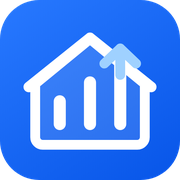
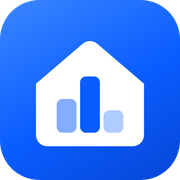
로고 마크 개선(상승 화살표 제거), 사이트로 이동 버튼 채움 스타일 (#18)
Claude-Session: https://claude.ai/code/session_016NGv6rUYKRUXGvfp4BMYV9

Changed region(s): [[0.1111, 0.1667, 0.8889, 0.8333]]

diff --git a/app/globals.css b/app/globals.css
@@ -11,12 +11,8 @@
 
 /* Brand mark: home + rising ranking bars */
 .logo{gap:10px}
-.logo .logo-mark{display:grid;place-items:center;width:38px;height:38px;border-radius:12px;background:linear-gradient(145deg,#2879ff,#0755e8);box-shadow:0 7px 16px rgba(23,104,255,.24);color:white;font-style:normal;font-size:initial}
-.logo-mark svg{width:32px;height:32px;overflow:visible}
-.logo-mark .house{fill:rgba(255,255,255,.12);stroke:#fff;stroke-width:2.2;stroke-linejoin:round}
-.logo-mark .roof{fill:none;stroke:#fff;stroke-width:2.4;stroke-linecap:round;stroke-linejoin:round}
-.logo-mark .bars{fill:none;stroke:#fff;stroke-width:2.6;stroke-linecap:round}
-.logo-mark .arrow{fill:none;stroke:#9fd1ff;stroke-width:2.2;stroke-linecap:round;stroke-linejoin:round}
+.logo .logo-mark{display:grid;place-items:center;width:38px;height:38px;border-radius:12px;background:linear-gradient(150deg,#3b86ff 0%,#0a5cff 55%,#0647d6 100%);box-shadow:0 7px 16px rgba(23,104,255,.24),inset 0 1px 0 rgba(255,255,255,.25);color:white;font-style:normal;font-size:initial}
+.logo-mark svg{width:38px;height:38px}
 .logo .logo-word{display:inline;width:auto;height:auto;border-radius:0;background:none;color:var(--ink);font-size:23px;font-style:normal;white-space:nowrap}
 .logo-word b{color:var(--blue);font-weight:900}
 .rank-card .rank-link{position:absolute;bottom:17px;left:20px;right:20px;border:0;background:none;text-align:left;font-size:12px;color:#566176;font-weight:800;padding:8px 0 0;border-top:1px solid #f0f2f5}.rank-card .rank-link b{float:right}.rank-card .rank-link:hover{color:var(--blue)}

diff --git a/app/brand-logo.tsx b/app/brand-logo.tsx
@@ -4,10 +4,10 @@ export function BrandLogo({ footer = false, href = "#top" }: { footer?: boolean;
     <a className={`logo${footer ? " footer-logo" : ""}`} href={href} aria-label="순위ZIP 홈">
       <span className="logo-mark" aria-hidden="true">
         <svg viewBox="0 0 40 40">
-          <path className="house" d="M5.5 18.4 20 6.5l14.5 11.9v14.1a2 2 0 0 1-2 2h-25a2 2 0 0 1-2-2Z" />
-          <path className="roof" d="m3.8 19.2 16.2-13 16.2 13" />
-          <path className="bars" d="M12 29v-6m8 6V18m8 11V13" />
-          <path className="arrow" d="m23.8 13 4.2-4 4.2 4M28 9v7" />
+          <path d="M8 18.6 18.4 9.7a2.5 2.5 0 0 1 3.2 0L32 18.6V30a2.5 2.5 0 0 1-2.5 2.5h-19A2.5 2.5 0 0 1 8 30Z" fill="#fff"/>
+          <rect x="12.6" y="22" width="4.4" height="7.5" rx="1.3" fill="#0a5cff" fillOpacity=".5"/>
+          <rect x="17.8" y="17" width="4.4" height="12.5" rx="1.3" fill="#0a5cff"/>
+          <rect x="23" y="24.5" width="4.4" height="5" rx="1.3" fill="#0a5cff" fillOpacity=".32"/>
         </svg>
       </span>
       <span className="logo-word">순위<b>ZIP</b></span>

diff --git a/app/rankings/[slug]/ranking.css b/app/rankings/[slug]/ranking.css
@@ -95,8 +95,8 @@
 .dp-row-links{display:flex;flex-wrap:wrap;gap:4px 12px;margin-top:6px}
 .dp-row-links a{font-size:12px;font-weight:700;color:#8a94a4;text-decoration:underline;text-underline-offset:2px}
 .dp-row-links a:hover{color:var(--blue)}
-.dp-row-links a.dp-visit{display:inline-block;margin-top:2px;padding:6px 12px;border-radius:8px;background:#eaf1ff;color:var(--blue);font-size:13px;font-weight:800;text-decoration:none}
-.dp-row-links a.dp-visit:hover{background:var(--blue);color:white}
+.dp-row-links a.dp-visit{display:inline-block;margin-top:2px;padding:6px 12px;border-radius:8px;background:var(--blue);color:#fff;font-size:13px;font-weight:800;text-decoration:none;transition:background .15s}
+.dp-row-links a.dp-visit:hover{background:#0647d6;color:#fff}
 
 /* 포스터형 순위 */
 .dp-posters{list-style:none;margin:0;padding:0;display:grid;grid-template-columns:repeat(auto-fill,minmax(160px,1fr));gap:22px 16px}
